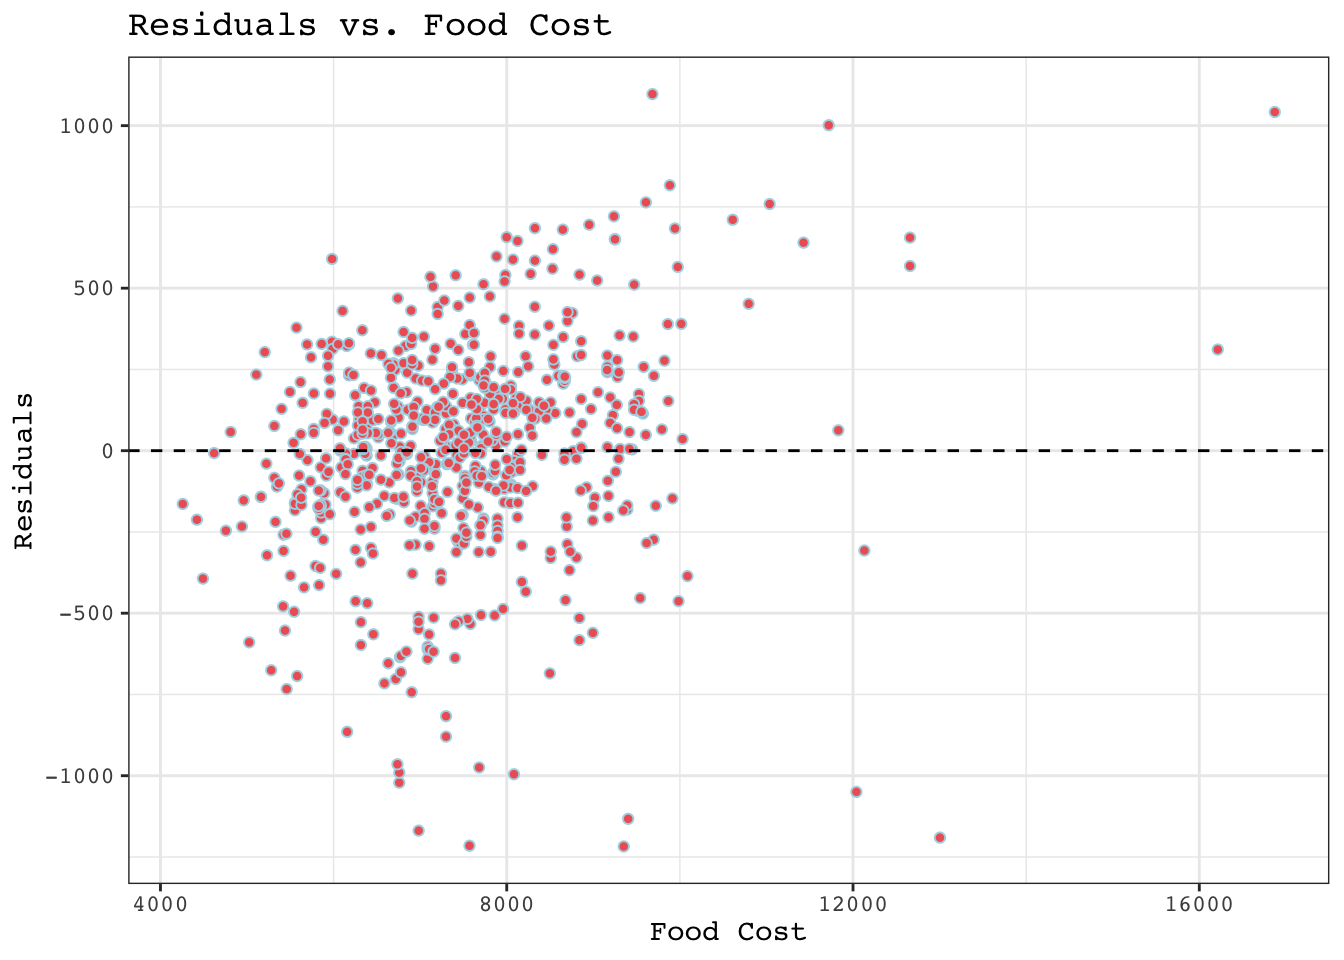
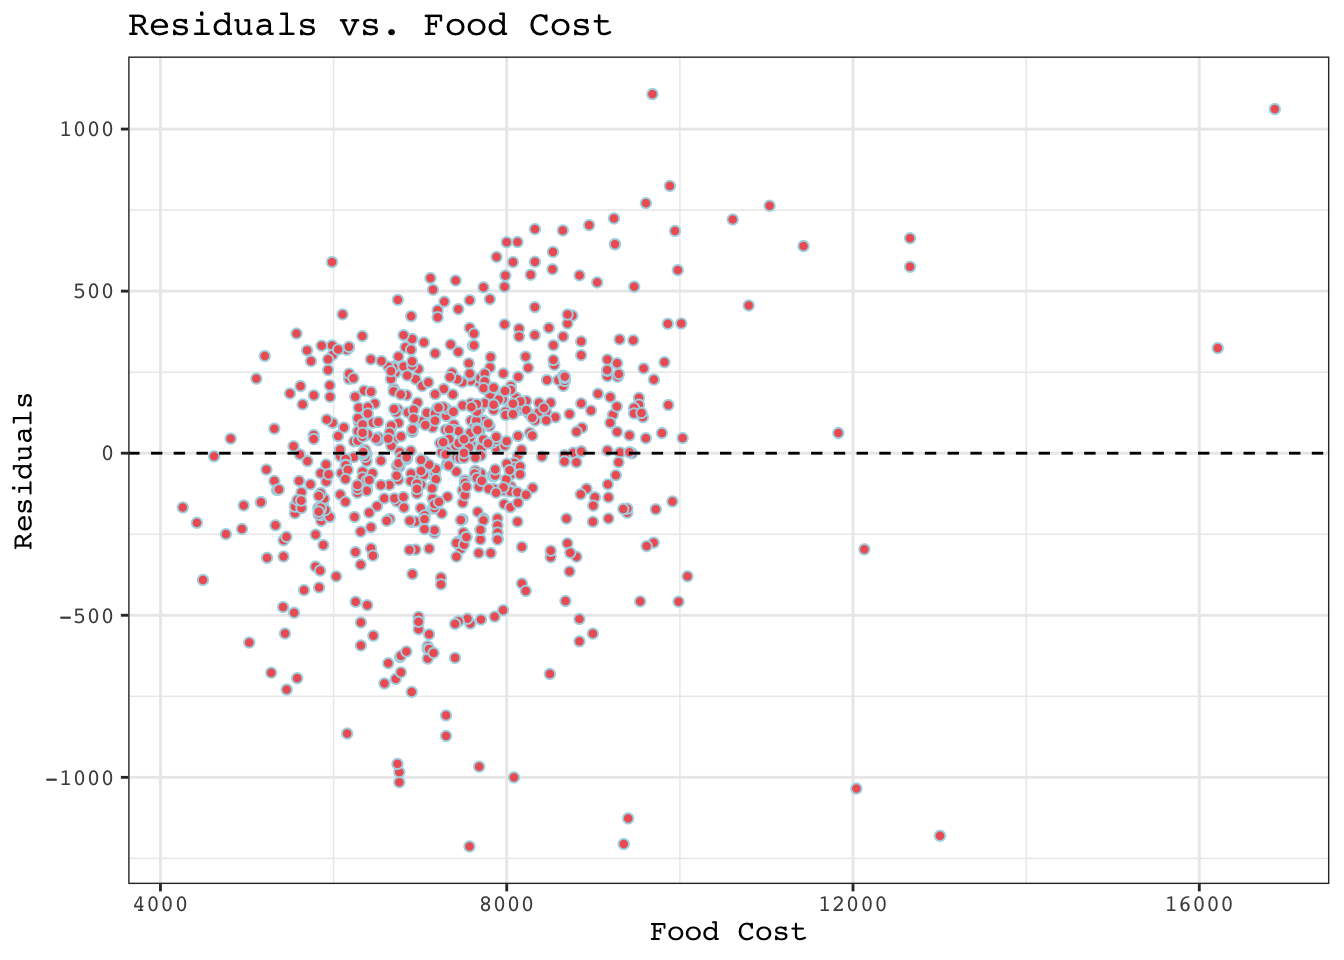
removed income outliers

diff --git a/finalproject.html b/finalproject.html
@@ -137,7 +137,8 @@ pre > code.sourceCode > span > a:first-child::before { text-decoration: underlin
    2500   20000   29410   35295   42875  250000 </code></pre>
 </div>
 <div class="sourceCode cell-code" id="cb7"><pre class="sourceCode r code-with-copy"><code class="sourceCode r"><span id="cb7-1"><a href="#cb7-1" aria-hidden="true" tabindex="-1"></a>food <span class="ot">&lt;-</span> food <span class="sc">%&gt;%</span></span>
-<span id="cb7-2"><a href="#cb7-2" aria-hidden="true" tabindex="-1"></a>  <span class="fu">mutate</span>(<span class="at">log_income =</span> <span class="fu">log</span>(median_income))</span></code><button title="Copy to Clipboard" class="code-copy-button"><i class="bi"></i></button></pre></div>
+<span id="cb7-2"><a href="#cb7-2" aria-hidden="true" tabindex="-1"></a>  <span class="fu">filter</span>(median_income <span class="sc">&lt;</span> <span class="dv">120000</span>) <span class="sc">%&gt;%</span> <span class="co"># remove outliers, several in the 200000s</span></span>
+<span id="cb7-3"><a href="#cb7-3" aria-hidden="true" tabindex="-1"></a>  <span class="fu">mutate</span>(<span class="at">log_income =</span> <span class="fu">log</span>(median_income))</span></code><button title="Copy to Clipboard" class="code-copy-button"><i class="bi"></i></button></pre></div>
 </div>
 </section>
 <section id="reclassify-counties-into-5-regions-not-15" class="level4">
@@ -234,7 +235,7 @@ pre > code.sourceCode > span > a:first-child::before { text-decoration: underlin
 <span id="cb11-7"><a href="#cb11-7" aria-hidden="true" tabindex="-1"></a></span>
 <span id="cb11-8"><a href="#cb11-8" aria-hidden="true" tabindex="-1"></a>point_estimate_cost <span class="co"># the diff between 2 regions</span></span></code><button title="Copy to Clipboard" class="code-copy-button"><i class="bi"></i></button></pre></div>
 <div class="cell-output cell-output-stdout">
-<pre><code>[1] 621.8538</code></pre>
+<pre><code>[1] 661.4388</code></pre>
 </div>
 </div>
 </section>
@@ -376,7 +377,7 @@ pre > code.sourceCode > span > a:first-child::before { text-decoration: underlin
 <span id="cb16-4"><a href="#cb16-4" aria-hidden="true" tabindex="-1"></a><span class="fu">options</span>(<span class="at">digits =</span> <span class="dv">10</span>)  <span class="co"># Increase precision for the output</span></span>
 <span id="cb16-5"><a href="#cb16-5" aria-hidden="true" tabindex="-1"></a><span class="fu">print</span>(p_value_1)</span></code><button title="Copy to Clipboard" class="code-copy-button"><i class="bi"></i></button></pre></div>
 <div class="cell-output cell-output-stdout">
-<pre><code>[1] 1e-04</code></pre>
+<pre><code>[1] 0</code></pre>
 </div>
 <div class="sourceCode cell-code" id="cb18"><pre class="sourceCode r code-with-copy"><code class="sourceCode r"><span id="cb18-1"><a href="#cb18-1" aria-hidden="true" tabindex="-1"></a>p_value_2 <span class="ot">&lt;-</span> <span class="fu">mean</span>(<span class="fu">abs</span>(null_dist_2) <span class="sc">&gt;=</span> <span class="fu">abs</span>(observed_point_estimate))</span>
 <span id="cb18-2"><a href="#cb18-2" aria-hidden="true" tabindex="-1"></a><span class="fu">options</span>(<span class="at">digits =</span> <span class="dv">10</span>)  <span class="co"># Increase precision for the output</span></span>
@@ -388,7 +389,7 @@ pre > code.sourceCode > span > a:first-child::before { text-decoration: underlin
 <span id="cb20-2"><a href="#cb20-2" aria-hidden="true" tabindex="-1"></a><span class="fu">options</span>(<span class="at">digits =</span> <span class="dv">10</span>)  <span class="co"># Increase precision for the output</span></span>
 <span id="cb20-3"><a href="#cb20-3" aria-hidden="true" tabindex="-1"></a><span class="fu">print</span>(p_value_3)</span></code><button title="Copy to Clipboard" class="code-copy-button"><i class="bi"></i></button></pre></div>
 <div class="cell-output cell-output-stdout">
-<pre><code>[1] 0.0018</code></pre>
+<pre><code>[1] 6e-04</code></pre>
 </div>
 </div>
 </section>
@@ -428,16 +429,16 @@ p.value
 (Intercept)
 </td>
 <td style="text-align:right;">
--683.07828680
+-674.11143285
 </td>
 <td style="text-align:right;">
-203.84614735
+210.14811420
 </td>
 <td style="text-align:right;">
--3.3509501929
+-3.2077919682
 </td>
 <td style="text-align:right;">
-0.0008502920
+0.0014021637
 </td>
 </tr>
 <tr>
@@ -445,16 +446,16 @@ p.value
 region_namecentral
 </td>
 <td style="text-align:right;">
--114.74271928
+-122.26686655
 </td>
 <td style="text-align:right;">
-38.16644126
+38.10088257
 </td>
 <td style="text-align:right;">
--3.0063772124
+-3.2090297729
 </td>
 <td style="text-align:right;">
-0.0027421014
+0.0013962344
 </td>
 </tr>
 <tr>
@@ -462,13 +463,13 @@ region_namecentral
 region_namelos_angeles
 </td>
 <td style="text-align:right;">
-304.40080786
+302.65631246
 </td>
 <td style="text-align:right;">
-42.88704622
+43.15684599
 </td>
 <td style="text-align:right;">
-7.0977331084
+7.0129386310
 </td>
 <td style="text-align:right;">
 0.0000000000
@@ -479,16 +480,16 @@ region_namelos_angeles
 region_namesouthern
 </td>
 <td style="text-align:right;">
-46.82024260
+32.92524549
 </td>
 <td style="text-align:right;">
-36.03312128
+36.06920008
 </td>
 <td style="text-align:right;">
-1.2993668308
+0.9128354780
 </td>
 <td style="text-align:right;">
-0.1942623397
+0.3616618900
 </td>
 </tr>
 <tr>
@@ -496,16 +497,16 @@ region_namesouthern
 region_namesuperior
 </td>
 <td style="text-align:right;">
--34.50069128
+-42.37846004
 </td>
 <td style="text-align:right;">
-48.16946143
+47.72851004
 </td>
 <td style="text-align:right;">
--0.7162357696
+-0.8879066201
 </td>
 <td style="text-align:right;">
-0.4740938609
+0.3749139523
 </td>
 </tr>
 <tr>
@@ -513,13 +514,13 @@ region_namesuperior
 ave_fam_size
 </td>
 <td style="text-align:right;">
-2181.34466242
+2177.99200325
 </td>
 <td style="text-align:right;">
-21.25581589
+21.22857606
 </td>
 <td style="text-align:right;">
-102.6234266281
+102.5971783191
 </td>
 <td style="text-align:right;">
 0.0000000000
@@ -530,16 +531,16 @@ ave_fam_size
 log_income
 </td>
 <td style="text-align:right;">
-94.17051461
+95.08898906
 </td>
 <td style="text-align:right;">
-17.65186163
+18.45105882
 </td>
 <td style="text-align:right;">
-5.3348772269
+5.1535789897
 </td>
 <td style="text-align:right;">
-0.0000001307
+0.0000003379
 </td>
 </tr>
 </tbody>
